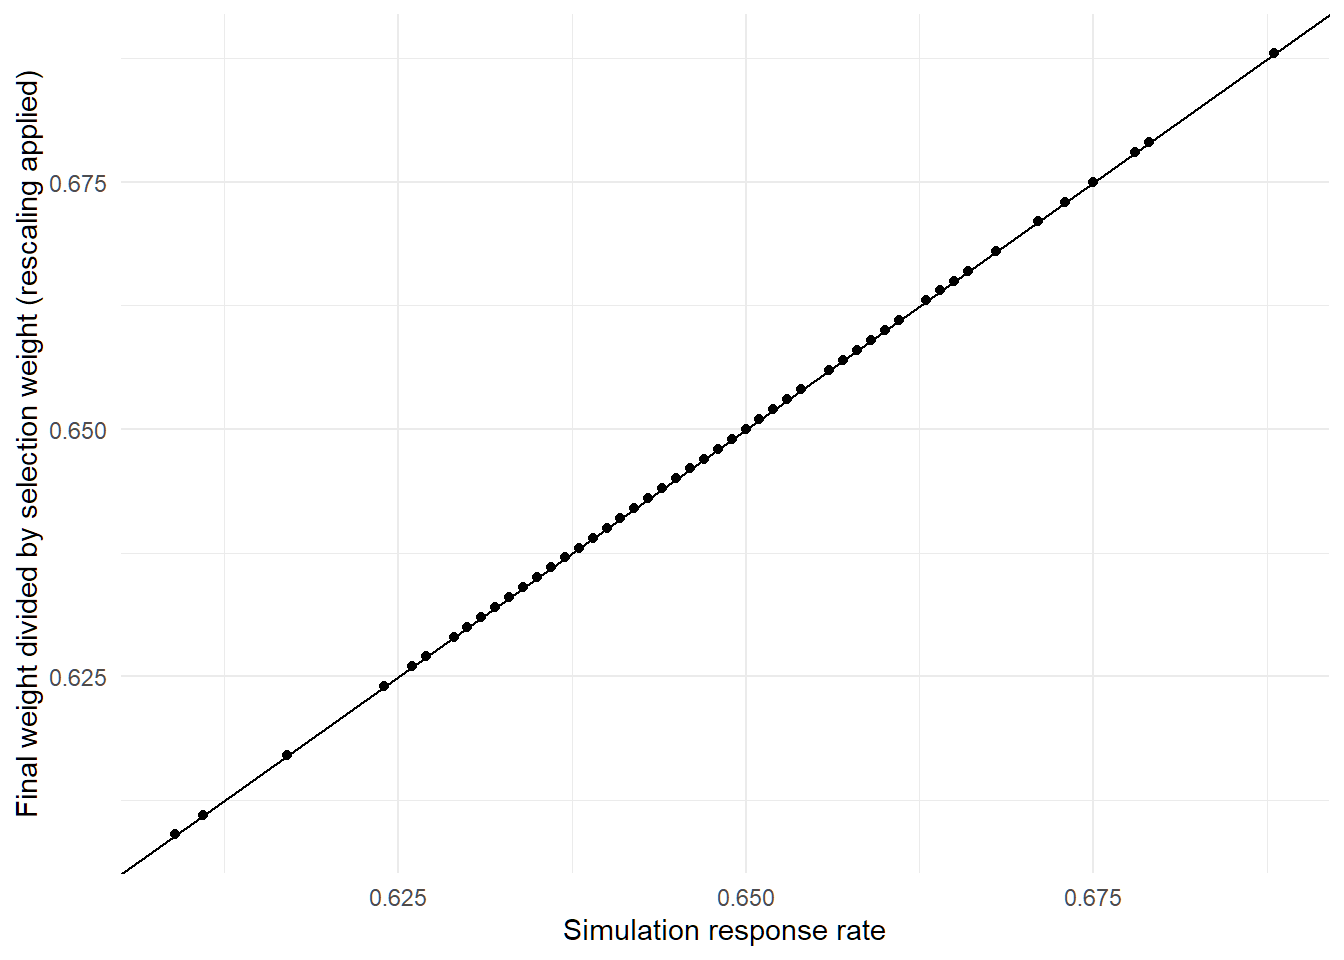
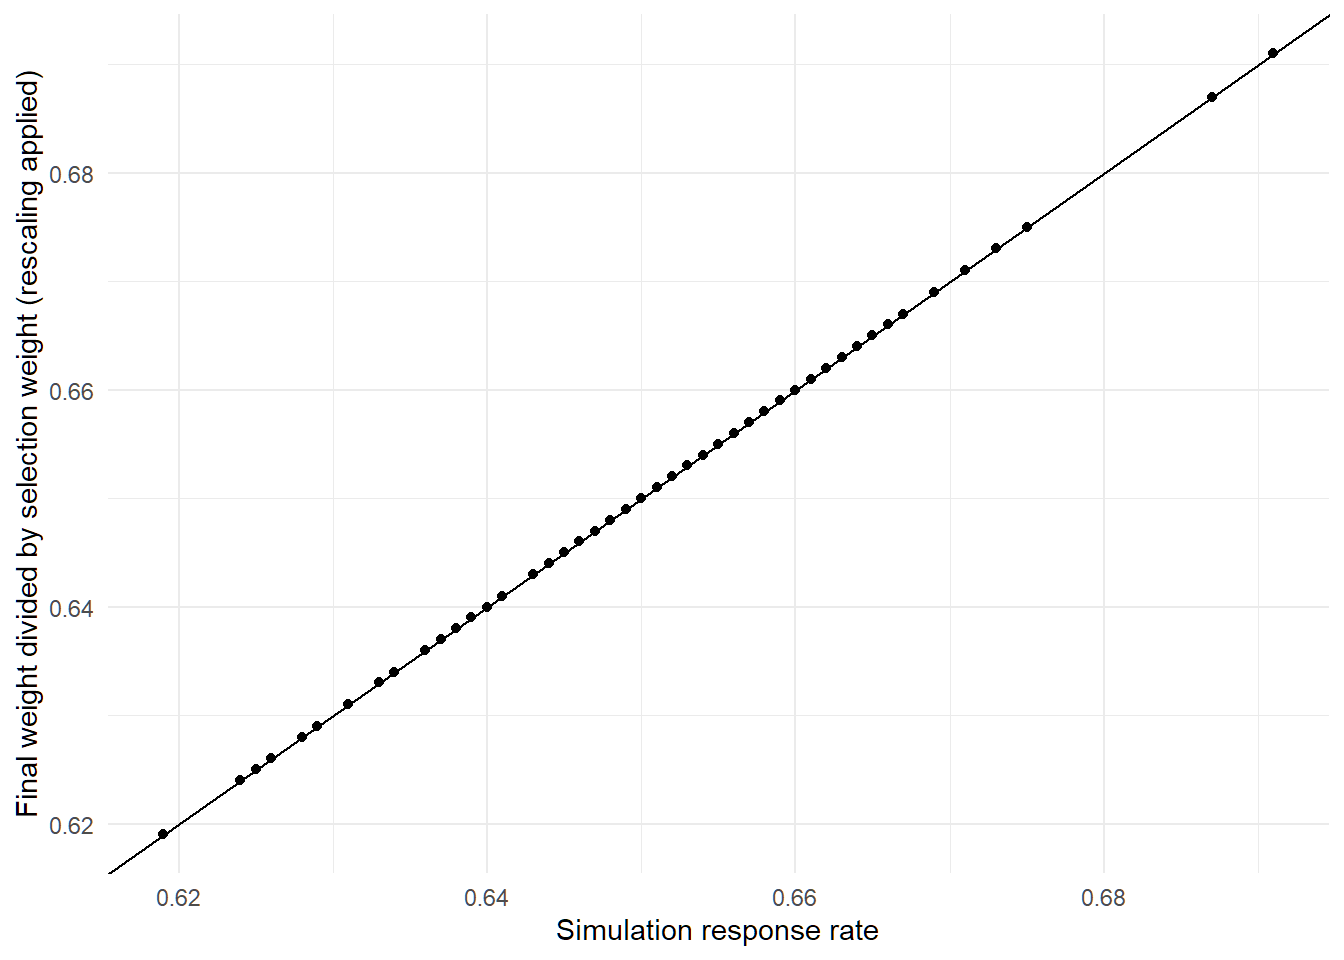
minor changes

diff --git a/content/post/why-is-this-the-answer/index.html b/content/post/why-is-this-the-answer/index.html
@@ -39,12 +39,12 @@ math: yes
 <p>After an hour of failing to work out an analytic proof, I thought it would be worth doing a simulation to see whether the claim is at least empirically true.</p>
 <p>Let’s do a simple two-stage sample where households are randomly selected, then a respondent is randomly selected from that household. This means that people in larger households have a lower probability of selection. If you live alone there’s a 100% chance of selection conditional on your household being selected, whereas if you live in a two-person household your selection probability is 50%.</p>
 <p>Conditional on being selected for the survey, rich people respond at 100% and poor people respond at 30%.</p>
-<p>So after simulating that, I look at the response rate for the simulation (0.643) and the minimum value of the ratios of the final true weight to the selection weight (0.644). Not far off, but also not identical. So, it looks like my initial guess about the constraint might be on the right track but not exactly right.</p>
+<p>So after simulating that, I look at the response rate for the simulation (0.649) and the minimum value of the ratios of the final true weight to the selection weight (0.647). Not far off, but also not identical. So, it looks like my initial guess about the constraint might be on the right track but not exactly right.</p>
 <p>Let’s try this a few more times and see whether it’s robust.</p>
 <p><img src="{{< blogdown/postref >}}index_files/figure-html/unnamed-chunk-2-1.png" width="672" /></p>
 <p>After 100 simulations, it’s clear that there’s a very strong relationship, but this not an exact match.</p>
 <p>So what’s going on with those ratios? The mean of the scaled inverse-probability weights is always exactly 1 in the simulation as is the mean of the scaled selection weights.</p>
-<p>However, the ratios themselves do not always have a mean of exactly one. In fact, on average, they are 0.011 away from 1. But should we actually expect these ratios to be near one on average? If I simulate two random vectors and rescale them to both have a mean of 1, the average ratio of them isn’t usually anywhere near 1.</p>
+<p>However, the ratios themselves do not always have a mean of exactly one. In fact, on average, they are 0.0086 away from 1. But should we actually expect these ratios to be near one on average? If I simulate two random vectors and rescale them to both have a mean of 1, the average ratio of them isn’t usually anywhere near 1.</p>
 <pre class="r"><code>set.seed(1298)
 A &lt;- abs(rnorm(1000))
 B &lt;- abs(rnorm(1000))
@@ -54,7 +54,7 @@ mean(A/B)</code></pre>
 <pre><code>## [1] 4.292947</code></pre>
 <p>OK, well what if I rescale the ratios so that they <em>actually</em> have a mean of 1 rather than just being close to that?</p>
 <p><img src="{{< blogdown/postref >}}index_files/figure-html/unnamed-chunk-6-1.png" width="672" /></p>
-<p>Apparently, that nails the minimum weight exactly. The mean absolute difference between this adjusted ratio and the response rate for the survey is just 0.0000000000000000655031584528842. At that point I’m willing to believe any remaining differences are just about floating point precision.</p>
+<p>Apparently, that nails the minimum weight exactly. The mean absolute difference between this adjusted ratio and the response rate for the survey is just 0.0000000000000000610622663543836. At that point I’m willing to believe any remaining differences are just about floating point precision.</p>
 </div>
 <div id="does-this-work-with-different-simulation-parameters" class="section level1">
 <h1>Does this work with different simulation parameters?</h1>
